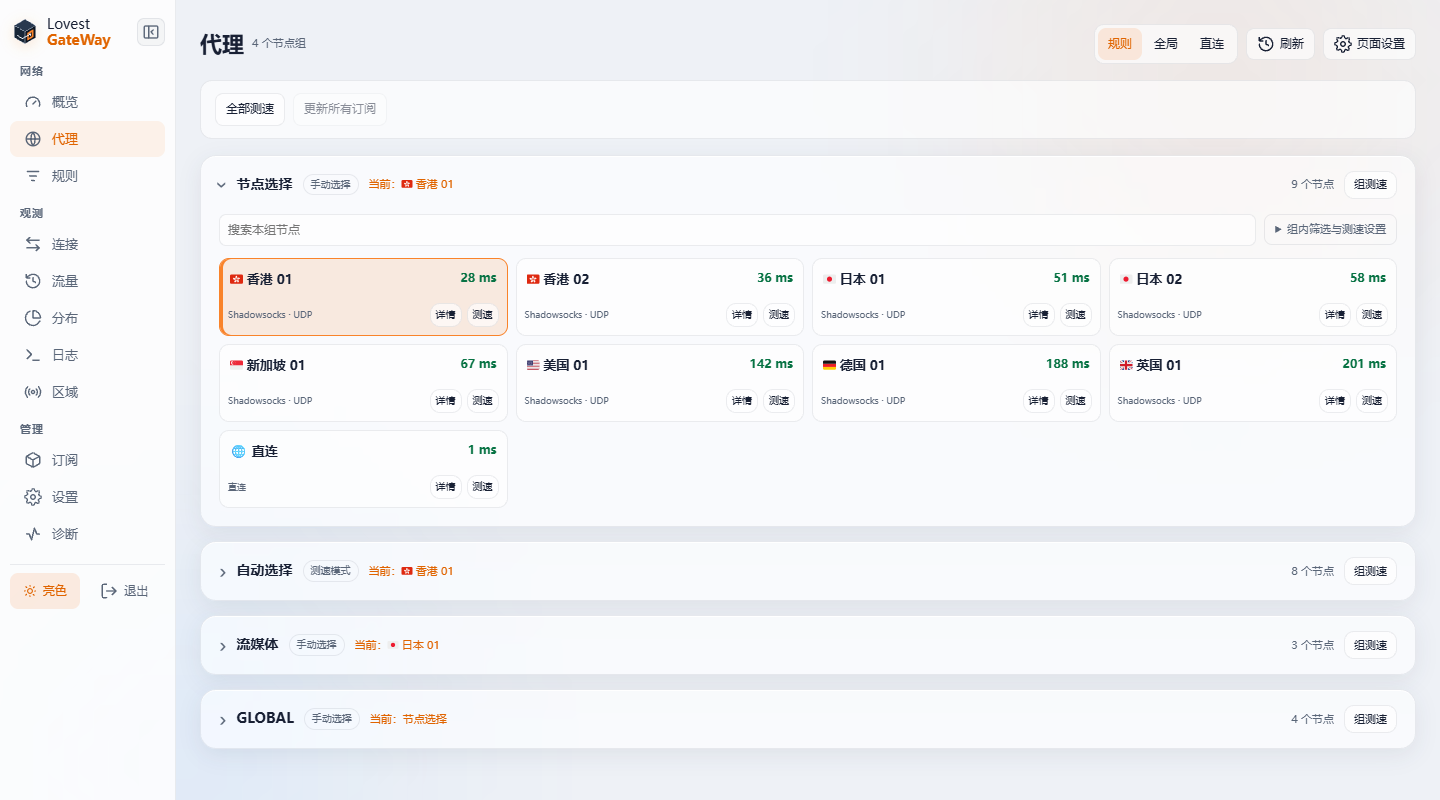
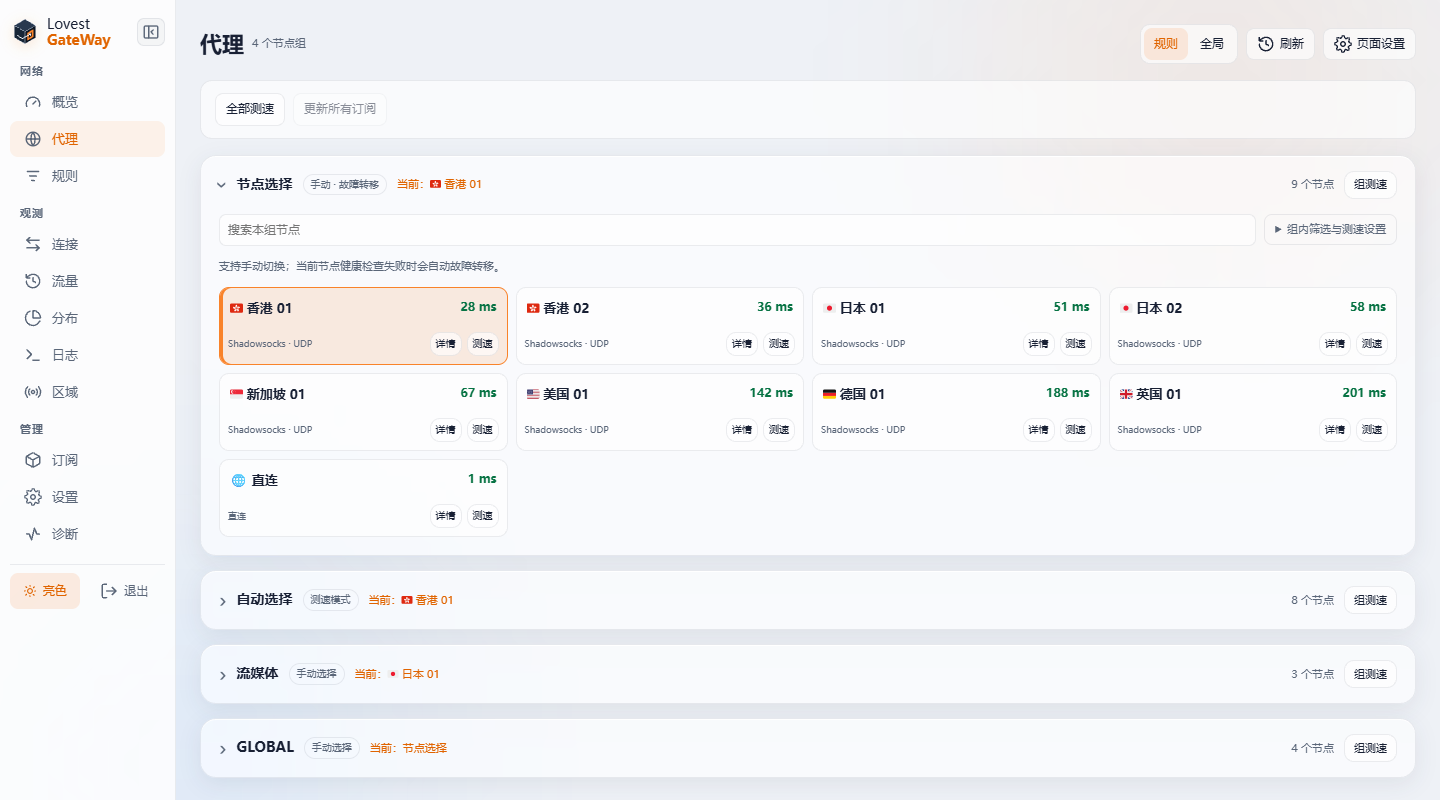
Prepare LovestGateWay v0.2.9 release

diff --git a/README.md b/README.md
@@ -25,13 +25,13 @@
 
 LovestSub 通过 Mihomo 的 `proxy-server-nameserver-policy`，让各订阅的节点域名使用各自的 DoH/DoT 实时解析。合并 `base.yaml` 时，订阅的有效 `hosts` 会补充到配置中，网关的 DNS 基础设置和 `paopaogateway.dns` 由 `base.yaml` 决定。开启节点 DNS 预解析还可生成固定 IP 节点副本。
 
-## v0.2.8
+## v0.2.9
 
-- 规则与订阅编辑可定位校验错误，规则测试可直接跳到命中项。
-- 静态策略热重载继承改名节点组的选择，实时日志支持断线补读。
-- 手机端改善配置预览和草稿保护。区域检测开启隐藏 IP 后，详情、复制和导出也会脱敏。
+- 代理与规则页显示「手动 · 故障转移」并保留手动切换；顶部模式切换收口为「规则」与「全局」，外部直连时提示恢复。
+- 订阅与策略编辑器收口为原生 LovestSub（默认导出 `lovestsub.json`，兼容旧 `ppsub.json`），支持三模式选择与手动组故障转移。
+- 多订阅私有 DoH/DoT 按节点域名隔离写入 Mihomo `proxy-server-nameserver-policy`，保留并展开 `hosts` 域名别名且保护 TLS SNI。
 
-升级沿用已有的组模式及故障转移、历史采集开关。详细说明见 [v0.2.8 发布说明](docs/releases/0.2.8.md)。
+升级沿用已有的配置、订阅及节点组设置。详细说明见 [v0.2.9 发布说明](docs/releases/0.2.9.md)。
 
 ## 界面预览
 

diff --git a/docs/releases/0.2.9.md b/docs/releases/0.2.9.md
@@ -1,0 +1,8 @@
+# LovestGateWay v0.2.9
+
+- 代理页与规则页为开启故障转移的手动选择组显示「手动 · 故障转移」，保持手动点击切换；顶部模式切换收口为「规则」与「全局」，核心被外部设为直连时提示一键恢复。
+- 订阅与策略编辑器收口为原生 LovestSub 流程，节点组支持手动选择、自动测速、智能测速及手动组故障转移勾选，移除易冲突的完整 Clash YAML 在线改写；面板文案与默认导出文件名统一为 `LovestSub` / `lovestsub.json`，保持原有本地配置路径与旧文件导入兼容。
+- LovestSub 支持多订阅私有 DoH/DoT 按节点域名隔离生成 Mihomo `proxy-server-nameserver-policy`，安全合并 `base.yaml` 的 DNS 与 `hosts`，并在关闭节点 DNS 预解析时保留扩展引导 DNS。
+- 保留订阅中的 `hosts` 域名别名并在节点 `server` 上直接展开为目标域名，同时按协议保留原有 TLS `sni`/`servername`，避免跨订阅解析串台与别名解析失败。
+
+在「设置 → 维护与 API → LovestGateWay 更新」中升级，或按[安装与升级指南](https://github.com/Lovest20018/LovestGateWay/blob/main/docs/debian-deployment.md)操作。升级沿用现有配置、订阅和节点组设置，服务重启期间转发会短暂中断，完成后刷新页面并重新登录。

diff --git a/CHANGELOG.md b/CHANGELOG.md
@@ -2,6 +2,13 @@
 
 正式安装包及发布清单见 [GitHub Releases](https://github.com/Lovest20018/LovestGateWay/releases)。本页索引用户可见变化，完整发布说明保存在 `docs/releases/`。
 
+## [v0.2.9](docs/releases/0.2.9.md) · 2026-11-28
+
+- 代理页与规则页区分「手动 · 故障转移」并保留手动切换，顶部模式切换收口为「规则」与「全局」。
+- 订阅与策略编辑器收口为原生 LovestSub 流程，统一面板文案与默认导出名 `lovestsub.json`，兼容既有本机配置与旧文件导入。
+- 多订阅私有 DoH/DoT 按节点域名隔离写入 Mihomo `proxy-server-nameserver-policy`，安全合并 `base.yaml` DNS 与 `hosts`。
+- 保留并展开订阅 `hosts` 域名别名至节点 `server`，按协议保护原有 TLS `sni`/`servername`。
+
 ## [v0.2.8](docs/releases/0.2.8.md) · 2026-11-27
 
 - 改善规则和规则集校验及错误定位，增加 Mihomo 子规则循环引用提示。

diff --git a/docs/images/README.md b/docs/images/README.md
@@ -2,7 +2,7 @@
 
 README 使用真实前端源码和完全虚构的演示数据生成截图，不连接运行中的网关。节点名称、统计值、版本显示及文档示例地址均不代表真实部署或性能结果。
 
-- `overview.png` 展示 v0.2.8 的亮色桌面概览与近 24 小时运行历史。
+- `overview.png` 展示 v0.2.9 的亮色桌面概览与近 24 小时运行历史。
 - `proxies.png`：桌面代理页面，亮色。
 - `mobile-dark.png`：390px 手机代理页面，暗色。
 

diff --git a/docs/README.md b/docs/README.md
@@ -2,7 +2,7 @@
 
 适用于 LovestGateWay Debian 正式版。首次使用从安装指南开始；日常设置通过 Web 完成。
 
-版本 [v0.2.8](releases/0.2.8.md) · [更新记录](../CHANGELOG.md) · [正式安装包](https://github.com/Lovest20018/LovestGateWay/releases/latest)
+版本 [v0.2.9](releases/0.2.9.md) · [更新记录](../CHANGELOG.md) · [正式安装包](https://github.com/Lovest20018/LovestGateWay/releases/latest)
 
 | 需求 | 文档 |
 | --- | --- |
